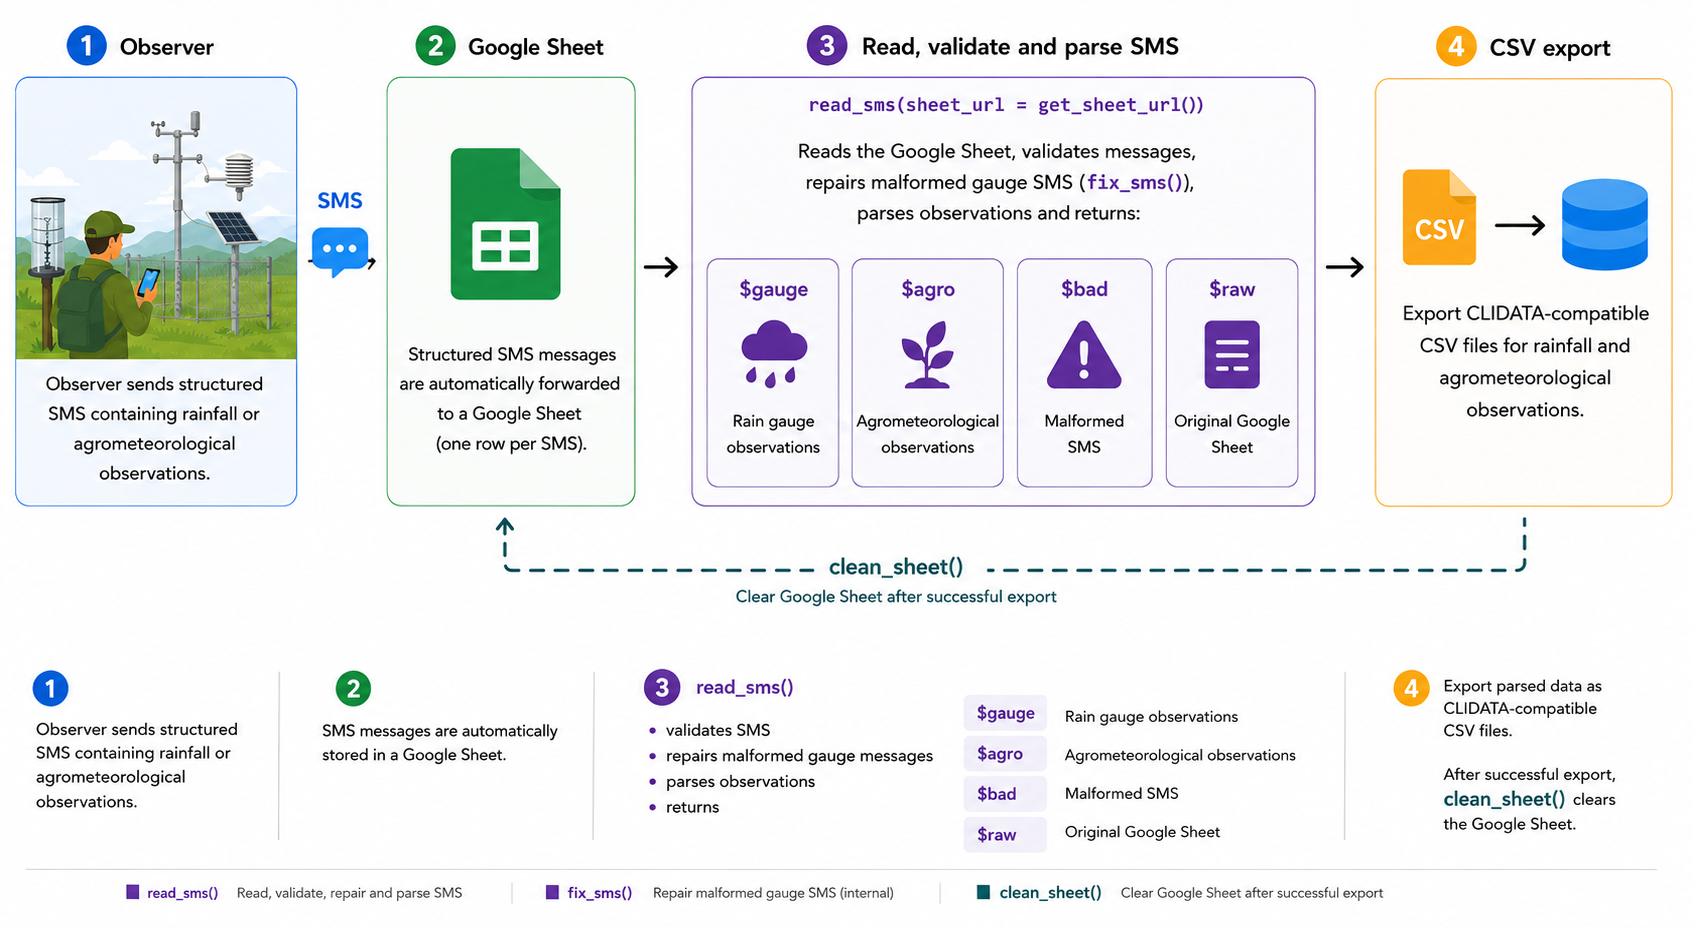
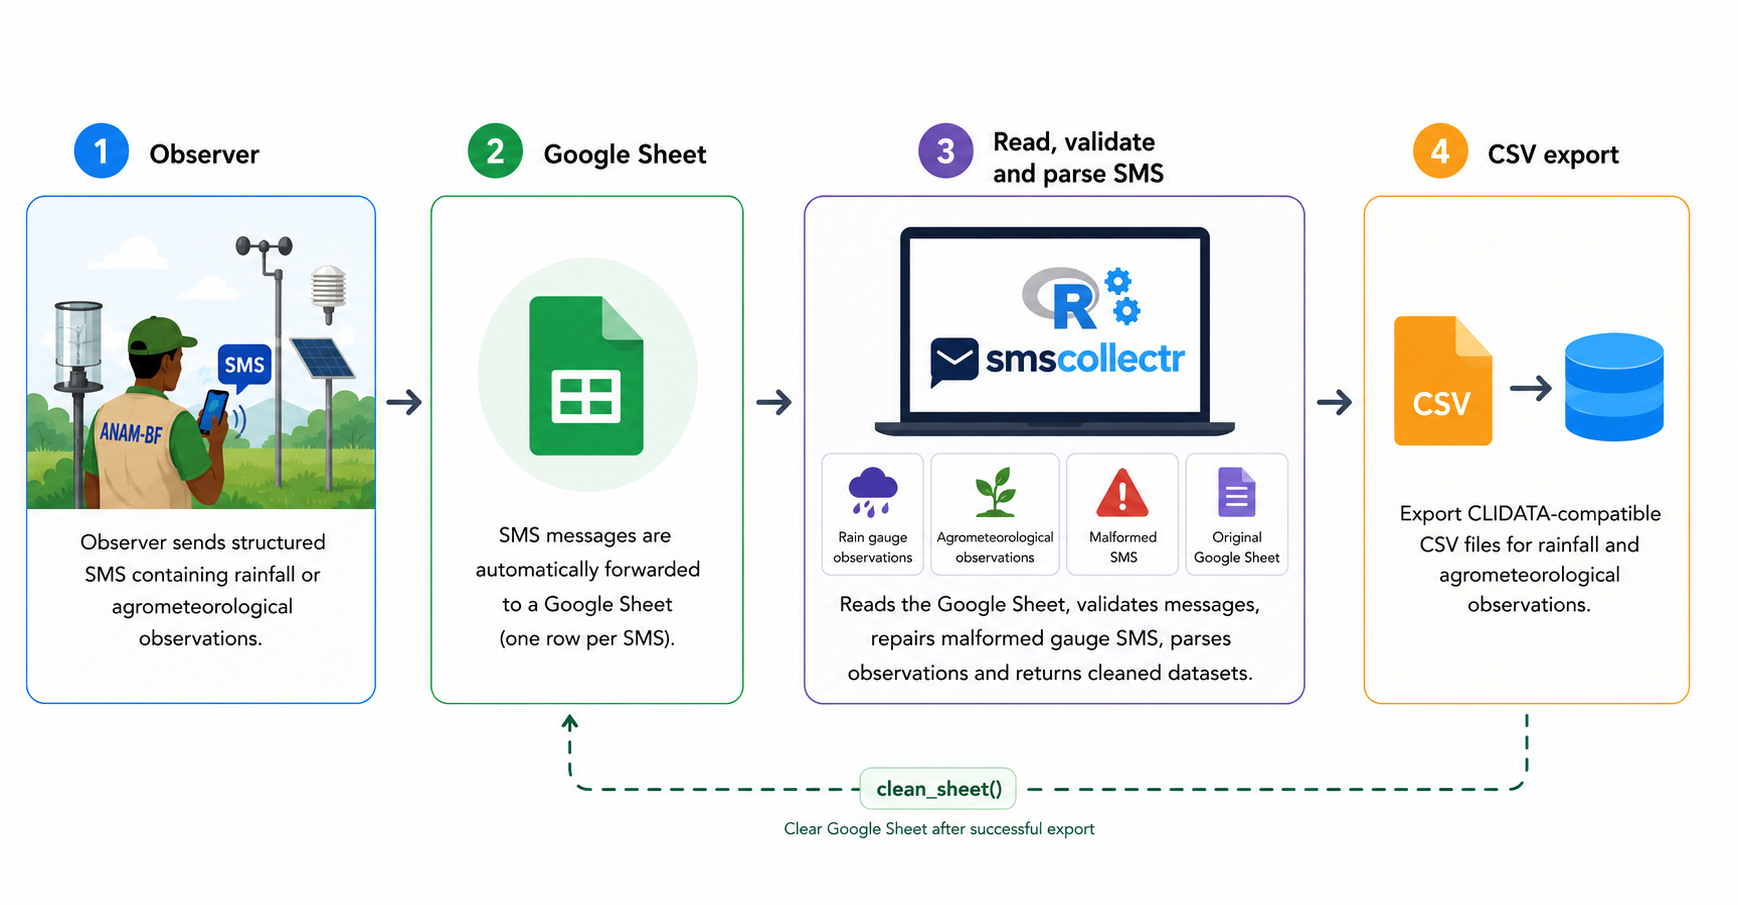
website

diff --git a/docs/index.html b/docs/index.html
@@ -5,12 +5,12 @@
 <meta charset="utf-8">
 <meta http-equiv="X-UA-Compatible" content="IE=edge">
 <meta name="viewport" content="width=device-width, initial-scale=1, shrink-to-fit=no">
-<title>Collect and Process Rain Gauge SMS Data • smscollectr</title>
+<title>smscollectr - parse sms observation data • smscollectr</title>
 <script src="deps/jquery-3.6.0/jquery-3.6.0.min.js"></script><meta name="viewport" content="width=device-width, initial-scale=1, shrink-to-fit=no">
 <link href="deps/bootstrap-5.3.1/bootstrap.min.css" rel="stylesheet">
 <script src="deps/bootstrap-5.3.1/bootstrap.bundle.min.js"></script><link href="deps/font-awesome-6.5.2/css/all.min.css" rel="stylesheet">
 <link href="deps/font-awesome-6.5.2/css/v4-shims.min.css" rel="stylesheet">
-<script src="deps/headroom-0.11.0/headroom.min.js"></script><script src="deps/headroom-0.11.0/jQuery.headroom.min.js"></script><script src="deps/bootstrap-toc-1.0.1/bootstrap-toc.min.js"></script><script src="deps/clipboard.js-2.0.11/clipboard.min.js"></script><script src="deps/search-1.0.0/autocomplete.jquery.min.js"></script><script src="deps/search-1.0.0/fuse.min.js"></script><script src="deps/search-1.0.0/mark.min.js"></script><!-- pkgdown --><script src="pkgdown.js"></script><meta property="og:title" content="Collect and Process Rain Gauge SMS Data">
+<script src="deps/headroom-0.11.0/headroom.min.js"></script><script src="deps/headroom-0.11.0/jQuery.headroom.min.js"></script><script src="deps/bootstrap-toc-1.0.1/bootstrap-toc.min.js"></script><script src="deps/clipboard.js-2.0.11/clipboard.min.js"></script><script src="deps/search-1.0.0/autocomplete.jquery.min.js"></script><script src="deps/search-1.0.0/fuse.min.js"></script><script src="deps/search-1.0.0/mark.min.js"></script><!-- pkgdown --><script src="pkgdown.js"></script><meta property="og:title" content="smscollectr - parse sms observation data">
 <meta name="description" content="Reads structured SMS messages forwarded to a Google Sheet by field observers, detects and fixes malformed entries, and parses valid messages into tidy rainfall and agrometeorological observations.">
 <meta property="og:description" content="Reads structured SMS messages forwarded to a Google Sheet by field observers, detects and fixes malformed entries, and parses valid messages into tidy rainfall and agrometeorological observations.">
 </head>
@@ -22,7 +22,7 @@
 
     <a class="navbar-brand me-2" href="index.html">smscollectr</a>
 
-    <small class="nav-text text-muted me-auto" data-bs-toggle="tooltip" data-bs-placement="bottom" title="">0.0.3</small>
+    <small class="nav-text text-muted me-auto" data-bs-toggle="tooltip" data-bs-placement="bottom" title="">0.1.0</small>
 
 
     <button class="navbar-toggler" type="button" data-bs-toggle="collapse" data-bs-target="#navbar" aria-controls="navbar" aria-expanded="false" aria-label="Toggle navigation">
@@ -47,10 +47,10 @@
 </nav><div class="container template-home">
 <div class="row">
   <main id="main" class="col-md-9"><div class="section level1">
-<div class="page-header"><h1 id="smscollectr">smscollectr<a class="anchor" aria-label="anchor" href="#smscollectr"></a>
+<div class="page-header"><h1 id="smscollectr-">smscollectr <img src="reference/figures/smscollectr-logo.png" align="right" width="25%" alt="smscollectr logo"><a class="anchor" aria-label="anchor" href="#smscollectr-"></a>
 </h1></div>
 <!-- badges: start -->
-<!-- badges: end -->
+
 <p><code>smscollectr</code> is an R package designed for the collection, parsing, and export of meteorological observations transmitted via SMS. It is built for operational use within ANAM-BF (Agence Nationale de la Météorologie du Burkina Faso), where field observers send daily measurements as structured text messages to a central Google Sheet.</p>
 <blockquote>
 <p><strong>Scope notice</strong></p>
@@ -568,7 +568,16 @@ Workflow
 </ul>
 </div>
 
-
+<div class="dev-status">
+<h2 data-toc-skip>Dev status</h2>
+<ul class="list-unstyled">
+<li><a href="https://github.com/oousmane/smscollectr/actions/workflows/pkgdown.yaml" class="external-link"><img src="https://github.com/oousmane/smscollectr/actions/workflows/pkgdown.yaml/badge.svg" alt="pkgdown"></a></li>
+<li><a href="https://github.com/oousmane/smscollectr/releases" class="external-link"><img src="https://img.shields.io/badge/version-0.1.0-blue.svg" alt="Version"></a></li>
+<li><a href="https://lifecycle.r-lib.org/articles/stages.html#experimental" class="external-link"><img src="https://img.shields.io/badge/lifecycle-experimental-orange.svg" alt="Lifecycle: experimental"></a></li>
+<li><a href="LICENSE.html"><img src="https://img.shields.io/badge/license-MIT-blue.svg" alt="License: MIT"></a></li>
+<li><a href="https://cran.r-project.org/" class="external-link"><img src="https://img.shields.io/badge/R-%3E%3D4.1.0-blue.svg" alt="R &gt;= 4.1.0"></a></li>
+</ul>
+</div>
 
   </aside>
 </div>

diff --git a/docs/reference/is_gauge_sms.html b/docs/reference/is_gauge_sms.html
@@ -13,7 +13,7 @@ the comma, is tolerated.'></head><body>
 
     <a class="navbar-brand me-2" href="../index.html">smscollectr</a>
 
-    <small class="nav-text text-muted me-auto" data-bs-toggle="tooltip" data-bs-placement="bottom" title="">0.0.3</small>
+    <small class="nav-text text-muted me-auto" data-bs-toggle="tooltip" data-bs-placement="bottom" title="">0.1.0</small>
 
 
     <button class="navbar-toggler" type="button" data-bs-toggle="collapse" data-bs-target="#navbar" aria-controls="navbar" aria-expanded="false" aria-label="Toggle navigation">
@@ -67,13 +67,13 @@ and returns <code>logical(0)</code>.</p></dd>
 
     <div class="section level2">
     <h2 id="ref-examples">Examples<a class="anchor" aria-label="anchor" href="#ref-examples"></a></h2>
-    <div class="sourceCode"><pre class="sourceCode r"><code><span class="r-in"><span><span class="fu">is_gauge_sms</span><span class="op">(</span><span class="st">"200001S, 03-06-2026, 125"</span><span class="op">)</span>   <span class="co"># TRUE</span></span></span>
+    <div class="sourceCode"><pre class="sourceCode r"><code><span class="r-in"><span><span class="fu">is_gauge_sms</span><span class="op">(</span><span class="st">"200001S, 03-06-2026, 125"</span><span class="op">)</span> <span class="co"># TRUE</span></span></span>
 <span class="r-out co"><span class="r-pr">#&gt;</span> [1] FALSE</span>
-<span class="r-in"><span><span class="fu">is_gauge_sms</span><span class="op">(</span><span class="st">"200096 P, 01-07-2026, 67"</span><span class="op">)</span>   <span class="co"># TRUE</span></span></span>
+<span class="r-in"><span><span class="fu">is_gauge_sms</span><span class="op">(</span><span class="st">"200096 P, 01-07-2026, 67"</span><span class="op">)</span> <span class="co"># TRUE</span></span></span>
 <span class="r-out co"><span class="r-pr">#&gt;</span> [1] TRUE</span>
-<span class="r-in"><span><span class="fu">is_gauge_sms</span><span class="op">(</span><span class="st">"hello world"</span><span class="op">)</span>                 <span class="co"># FALSE</span></span></span>
+<span class="r-in"><span><span class="fu">is_gauge_sms</span><span class="op">(</span><span class="st">"hello world"</span><span class="op">)</span> <span class="co"># FALSE</span></span></span>
 <span class="r-out co"><span class="r-pr">#&gt;</span> [1] FALSE</span>
-<span class="r-in"><span><span class="fu">is_gauge_sms</span><span class="op">(</span><span class="cn">NULL</span><span class="op">)</span>                          <span class="co"># logical(0)</span></span></span>
+<span class="r-in"><span><span class="fu">is_gauge_sms</span><span class="op">(</span><span class="cn">NULL</span><span class="op">)</span> <span class="co"># logical(0)</span></span></span>
 <span class="r-out co"><span class="r-pr">#&gt;</span> logical(0)</span>
 <span class="r-in"><span></span></span>
 </code></pre></div>

diff --git a/docs/reference/is_agro_sms.html b/docs/reference/is_agro_sms.html
@@ -11,7 +11,7 @@ of Key= value lines."></head><body>
 
     <a class="navbar-brand me-2" href="../index.html">smscollectr</a>
 
-    <small class="nav-text text-muted me-auto" data-bs-toggle="tooltip" data-bs-placement="bottom" title="">0.0.3</small>
+    <small class="nav-text text-muted me-auto" data-bs-toggle="tooltip" data-bs-placement="bottom" title="">0.1.0</small>
 
 
     <button class="navbar-toggler" type="button" data-bs-toggle="collapse" data-bs-target="#navbar" aria-controls="navbar" aria-expanded="false" aria-label="Toggle navigation">
@@ -69,11 +69,11 @@ and returns <code>logical(0)</code>.</p></dd>
     <div class="section level2">
     <h2 id="ref-examples">Examples<a class="anchor" aria-label="anchor" href="#ref-examples"></a></h2>
     <div class="sourceCode"><pre class="sourceCode r"><code><span class="r-in"><span><span class="va">msg</span> <span class="op">&lt;-</span> <span class="st">"DEDOUGOU\n11-05-2026\nTn= 305\nTx= 438"</span></span></span>
-<span class="r-in"><span><span class="fu">is_agro_sms</span><span class="op">(</span><span class="va">msg</span><span class="op">)</span>                          <span class="co"># TRUE</span></span></span>
+<span class="r-in"><span><span class="fu">is_agro_sms</span><span class="op">(</span><span class="va">msg</span><span class="op">)</span> <span class="co"># TRUE</span></span></span>
 <span class="r-out co"><span class="r-pr">#&gt;</span> [1] FALSE</span>
-<span class="r-in"><span><span class="fu">is_agro_sms</span><span class="op">(</span><span class="st">"200001S, 03-06-2026, 125"</span><span class="op">)</span>   <span class="co"># FALSE</span></span></span>
+<span class="r-in"><span><span class="fu">is_agro_sms</span><span class="op">(</span><span class="st">"200001S, 03-06-2026, 125"</span><span class="op">)</span> <span class="co"># FALSE</span></span></span>
 <span class="r-out co"><span class="r-pr">#&gt;</span> [1] FALSE</span>
-<span class="r-in"><span><span class="fu">is_agro_sms</span><span class="op">(</span><span class="cn">NULL</span><span class="op">)</span>                         <span class="co"># logical(0)</span></span></span>
+<span class="r-in"><span><span class="fu">is_agro_sms</span><span class="op">(</span><span class="cn">NULL</span><span class="op">)</span> <span class="co"># logical(0)</span></span></span>
 <span class="r-out co"><span class="r-pr">#&gt;</span> logical(0)</span>
 <span class="r-in"><span></span></span>
 </code></pre></div>

diff --git a/docs/authors.html b/docs/authors.html
@@ -7,7 +7,7 @@
 
     <a class="navbar-brand me-2" href="index.html">smscollectr</a>
 
-    <small class="nav-text text-muted me-auto" data-bs-toggle="tooltip" data-bs-placement="bottom" title="">0.0.3</small>
+    <small class="nav-text text-muted me-auto" data-bs-toggle="tooltip" data-bs-placement="bottom" title="">0.1.0</small>
 
 
     <button class="navbar-toggler" type="button" data-bs-toggle="collapse" data-bs-target="#navbar" aria-controls="navbar" aria-expanded="false" aria-label="Toggle navigation">
@@ -46,13 +46,13 @@
 
       <p>Ouedraogo O (2026).
 <em>smscollectr: Collect and Process Rain Gauge SMS Data</em>.
-R package version 0.0.3, <a href="https://github.com/oousmane/smscollectr" class="external-link">https://github.com/oousmane/smscollectr</a>.
+R package version 0.1.0, <a href="https://github.com/oousmane/smscollectr" class="external-link">https://github.com/oousmane/smscollectr</a>.
 </p>
       <pre>@Manual{,
   title = {smscollectr: Collect and Process Rain Gauge SMS Data},
   author = {Ousmane Ouedraogo},
   year = {2026},
-  note = {R package version 0.0.3},
+  note = {R package version 0.1.0},
   url = {https://github.com/oousmane/smscollectr},
 }</pre>
     </div>

diff --git a/docs/reference/smscollectr-package.html b/docs/reference/smscollectr-package.html
@@ -7,7 +7,7 @@
 
     <a class="navbar-brand me-2" href="../index.html">smscollectr</a>
 
-    <small class="nav-text text-muted me-auto" data-bs-toggle="tooltip" data-bs-placement="bottom" title="">0.0.3</small>
+    <small class="nav-text text-muted me-auto" data-bs-toggle="tooltip" data-bs-placement="bottom" title="">0.1.0</small>
 
 
     <button class="navbar-toggler" type="button" data-bs-toggle="collapse" data-bs-target="#navbar" aria-controls="navbar" aria-expanded="false" aria-label="Toggle navigation">
@@ -48,7 +48,8 @@
     <div class="section level2">
     <h2 id="author">Author<a class="anchor" aria-label="anchor" href="#author"></a></h2>
     <p><strong>Maintainer</strong>: Ousmane Ouedraogo <a href="mailto:ouedraogo.ousmane@meteoburkina.bf">ouedraogo.ousmane@meteoburkina.bf</a></p>
-    </div>
+<p>Authors:</p><ul><li><p>Ousmane Ouedraogo <a href="mailto:ouedraogo.ousmane@meteoburkina.bf">ouedraogo.ousmane@meteoburkina.bf</a></p></li>
+</ul></div>
 
   </main><aside class="col-md-3"><nav id="toc" aria-label="Table of contents"><h2>On this page</h2>
     </nav></aside></div>

diff --git a/docs/reference/parse_sms.html b/docs/reference/parse_sms.html
@@ -11,7 +11,7 @@ Malformed gauge SMS are fixed via fix_sms() before parsing."></head><body>
 
     <a class="navbar-brand me-2" href="../index.html">smscollectr</a>
 
-    <small class="nav-text text-muted me-auto" data-bs-toggle="tooltip" data-bs-placement="bottom" title="">0.0.3</small>
+    <small class="nav-text text-muted me-auto" data-bs-toggle="tooltip" data-bs-placement="bottom" title="">0.1.0</small>
 
 
     <button class="navbar-toggler" type="button" data-bs-toggle="collapse" data-bs-target="#navbar" aria-controls="navbar" aria-expanded="false" aria-label="Toggle navigation">

diff --git a/docs/reference/set_sheet_url.html b/docs/reference/set_sheet_url.html
@@ -11,7 +11,7 @@ written to disk in plain text, .Renviron, or any R script."></head><body>
 
     <a class="navbar-brand me-2" href="../index.html">smscollectr</a>
 
-    <small class="nav-text text-muted me-auto" data-bs-toggle="tooltip" data-bs-placement="bottom" title="">0.0.3</small>
+    <small class="nav-text text-muted me-auto" data-bs-toggle="tooltip" data-bs-placement="bottom" title="">0.1.0</small>
 
 
     <button class="navbar-toggler" type="button" data-bs-toggle="collapse" data-bs-target="#navbar" aria-controls="navbar" aria-expanded="false" aria-label="Toggle navigation">

diff --git a/docs/reference/sms_auth.html b/docs/reference/sms_auth.html
@@ -11,7 +11,7 @@ otherwise falls back to OAuth with the provided email."></head><body>
 
     <a class="navbar-brand me-2" href="../index.html">smscollectr</a>
 
-    <small class="nav-text text-muted me-auto" data-bs-toggle="tooltip" data-bs-placement="bottom" title="">0.0.3</small>
+    <small class="nav-text text-muted me-auto" data-bs-toggle="tooltip" data-bs-placement="bottom" title="">0.1.0</small>
 
 
     <button class="navbar-toggler" type="button" data-bs-toggle="collapse" data-bs-target="#navbar" aria-controls="navbar" aria-expanded="false" aria-label="Toggle navigation">

diff --git a/docs/reference/read_sms.html b/docs/reference/read_sms.html
@@ -13,7 +13,7 @@ with parsed data, malformed rows, and the raw sheet."></head><body>
 
     <a class="navbar-brand me-2" href="../index.html">smscollectr</a>
 
-    <small class="nav-text text-muted me-auto" data-bs-toggle="tooltip" data-bs-placement="bottom" title="">0.0.3</small>
+    <small class="nav-text text-muted me-auto" data-bs-toggle="tooltip" data-bs-placement="bottom" title="">0.1.0</small>
 
 
     <button class="navbar-toggler" type="button" data-bs-toggle="collapse" data-bs-target="#navbar" aria-controls="navbar" aria-expanded="false" aria-label="Toggle navigation">

diff --git a/docs/reference/get_sheet_url.html b/docs/reference/get_sheet_url.html
@@ -9,7 +9,7 @@ Raises an informative error if the key is not found."></head><body>
 
     <a class="navbar-brand me-2" href="../index.html">smscollectr</a>
 
-    <small class="nav-text text-muted me-auto" data-bs-toggle="tooltip" data-bs-placement="bottom" title="">0.0.3</small>
+    <small class="nav-text text-muted me-auto" data-bs-toggle="tooltip" data-bs-placement="bottom" title="">0.1.0</small>
 
 
     <button class="navbar-toggler" type="button" data-bs-toggle="collapse" data-bs-target="#navbar" aria-controls="navbar" aria-expanded="false" aria-label="Toggle navigation">

diff --git a/docs/reference/clean_sheet.html b/docs/reference/clean_sheet.html
@@ -9,7 +9,7 @@ Has no effect if the sheet is already empty."></head><body>
 
     <a class="navbar-brand me-2" href="../index.html">smscollectr</a>
 
-    <small class="nav-text text-muted me-auto" data-bs-toggle="tooltip" data-bs-placement="bottom" title="">0.0.3</small>
+    <small class="nav-text text-muted me-auto" data-bs-toggle="tooltip" data-bs-placement="bottom" title="">0.1.0</small>
 
 
     <button class="navbar-toggler" type="button" data-bs-toggle="collapse" data-bs-target="#navbar" aria-controls="navbar" aria-expanded="false" aria-label="Toggle navigation">

diff --git a/docs/404.html b/docs/404.html
@@ -20,7 +20,7 @@
 
     <a class="navbar-brand me-2" href="https://oousmane.github.io/smscollectr/index.html">smscollectr</a>
 
-    <small class="nav-text text-muted me-auto" data-bs-toggle="tooltip" data-bs-placement="bottom" title="">0.0.3</small>
+    <small class="nav-text text-muted me-auto" data-bs-toggle="tooltip" data-bs-placement="bottom" title="">0.1.0</small>
 
 
     <button class="navbar-toggler" type="button" data-bs-toggle="collapse" data-bs-target="#navbar" aria-controls="navbar" aria-expanded="false" aria-label="Toggle navigation">
